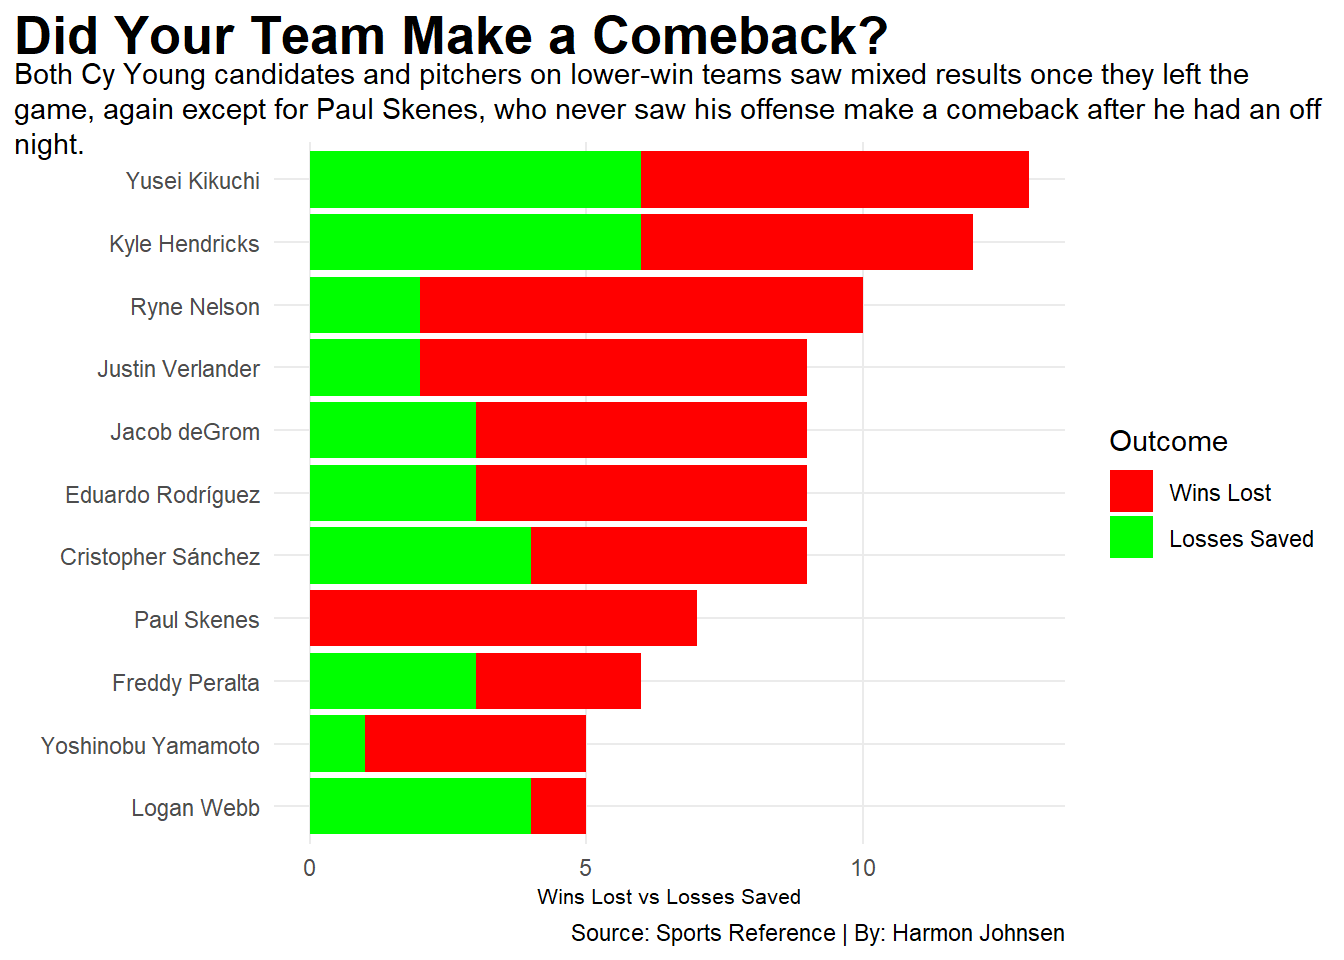
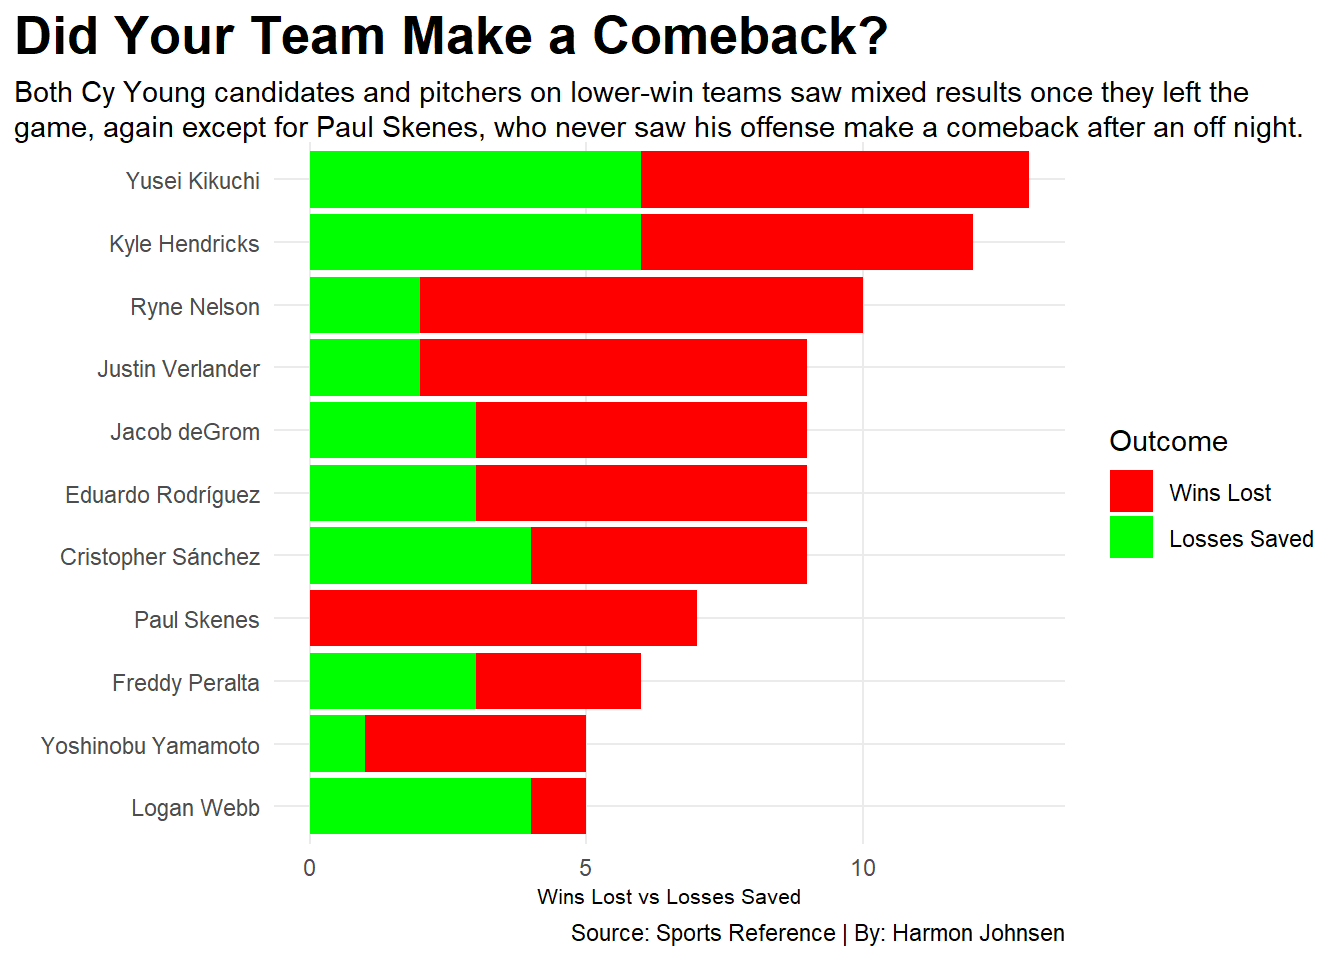
fix chatter

Changed region(s): [[0.0, 0.0625, 1.0, 0.1875]]

diff --git a/posts/paul-skenes-good-pitcher/index.html b/posts/paul-skenes-good-pitcher/index.html
@@ -262,7 +262,7 @@ pre > code.sourceCode > span > a:first-child::before { text-decoration: underlin
 <span id="cb1-56"><a href="#cb1-56" aria-hidden="true" tabindex="-1"></a>    <span class="at">x =</span> <span class="st">"Wins Lost to Quality Starts"</span>,</span>
 <span id="cb1-57"><a href="#cb1-57" aria-hidden="true" tabindex="-1"></a>    <span class="at">y =</span> <span class="st">""</span>,</span>
 <span id="cb1-58"><a href="#cb1-58" aria-hidden="true" tabindex="-1"></a>    <span class="at">title=</span><span class="st">"How Many Good Starts Were Wasted?"</span>, </span>
-<span id="cb1-59"><a href="#cb1-59" aria-hidden="true" tabindex="-1"></a>    <span class="at">subtitle =</span> <span class="st">"The &lt;span style = 'color:green;'&gt;Quality Start&lt;/span&gt; is when a starting pitcher throws 6+ innings allowing 3 or less runs. The top-five Cy Young Candidates usually got help from their bullpen, leading to less &lt;span style = 'color:red;'&gt;Wins Lost&lt;/span&gt;, except for Paul Skenes."</span>,</span>
+<span id="cb1-59"><a href="#cb1-59" aria-hidden="true" tabindex="-1"></a>    <span class="at">subtitle =</span> <span class="st">"A &lt;span style = 'color:green;'&gt;Quality Start&lt;/span&gt; is when a starter throws 6+ innings allowing 3 or less runs. The top Cy Young Candidates usually got help from their bullpen, leading to less &lt;span style = 'color:red;'&gt;Wins Lost&lt;/span&gt;, except for Paul Skenes."</span>,</span>
 <span id="cb1-60"><a href="#cb1-60" aria-hidden="true" tabindex="-1"></a>    <span class="at">caption=</span><span class="st">"Source: Sports Reference | By: Harmon Johnsen"</span></span>
 <span id="cb1-61"><a href="#cb1-61" aria-hidden="true" tabindex="-1"></a>  ) <span class="sc">+</span> </span>
 <span id="cb1-62"><a href="#cb1-62" aria-hidden="true" tabindex="-1"></a>  <span class="fu">theme_minimal</span>() <span class="sc">+</span></span>
@@ -299,7 +299,7 @@ pre > code.sourceCode > span > a:first-child::before { text-decoration: underlin
 <span id="cb2-10"><a href="#cb2-10" aria-hidden="true" tabindex="-1"></a>    <span class="at">x =</span> <span class="st">""</span>,</span>
 <span id="cb2-11"><a href="#cb2-11" aria-hidden="true" tabindex="-1"></a>    <span class="at">y =</span> <span class="st">"Wins Lost vs Losses Saved"</span>,</span>
 <span id="cb2-12"><a href="#cb2-12" aria-hidden="true" tabindex="-1"></a>    <span class="at">title=</span><span class="st">"Did Your Team Make a Comeback?"</span>, </span>
-<span id="cb2-13"><a href="#cb2-13" aria-hidden="true" tabindex="-1"></a>    <span class="at">subtitle =</span> <span class="st">"Both Cy Young candidates and pitchers on lower-win teams saw mixed results once they left the game, again except for Paul Skenes, who never saw his offense make a comeback after he had an off night."</span>,</span>
+<span id="cb2-13"><a href="#cb2-13" aria-hidden="true" tabindex="-1"></a>    <span class="at">subtitle =</span> <span class="st">"Both Cy Young candidates and pitchers on lower-win teams saw mixed results once they left the game, again except for Paul Skenes, who never saw his offense make a comeback after an off night."</span>,</span>
 <span id="cb2-14"><a href="#cb2-14" aria-hidden="true" tabindex="-1"></a>    <span class="at">caption=</span><span class="st">"Source: Sports Reference | By: Harmon Johnsen"</span></span>
 <span id="cb2-15"><a href="#cb2-15" aria-hidden="true" tabindex="-1"></a>  ) <span class="sc">+</span> </span>
 <span id="cb2-16"><a href="#cb2-16" aria-hidden="true" tabindex="-1"></a>  <span class="fu">theme_minimal</span>() <span class="sc">+</span></span>

diff --git a/index.html b/index.html
@@ -209,7 +209,7 @@ window.Quarto = {
 
 <div class="quarto-listing quarto-listing-container-default" id="listing-listing">
 <div class="list quarto-listing-default">
[2 lines of base64/hex data omitted]
 <div class="thumbnail"><a href="./posts/paul-skenes-good-pitcher/index.html" class="no-external">
 
 <img loading="lazy" src="./posts/paul-skenes-good-pitcher/image.png" class="thumbnail-image">
